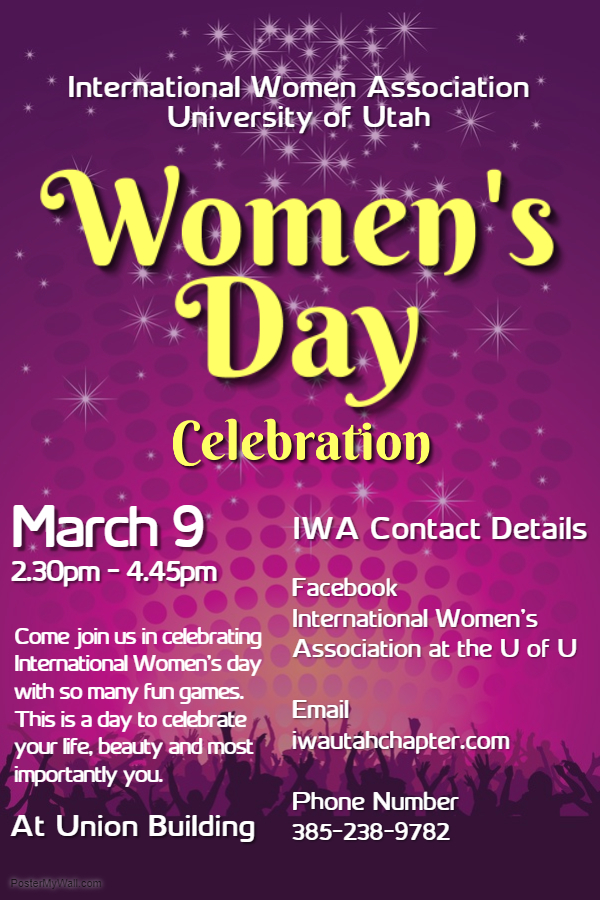
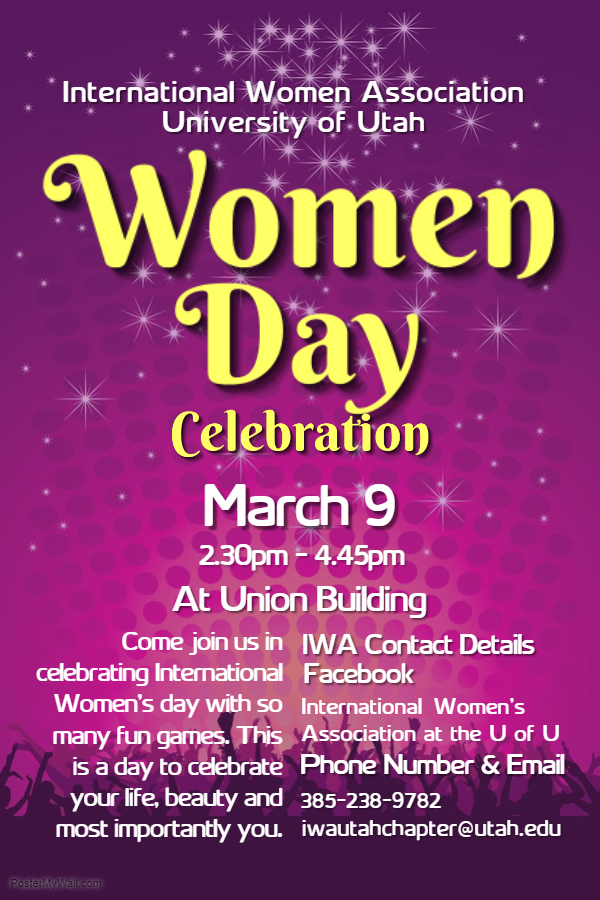
prj7 changes

Changed region(s): [[0.0, 0.0622, 0.99, 0.9333]]

diff --git a/prj7.html b/prj7.html
@@ -13,6 +13,11 @@
 	</div>
 		<p>Latest Design(11/01/2018)</p>
 		<!--<a target="_blank" href="https://harshinivasu.github.io/prj7.png">-->
+		<img rel="fsimage" src="https://harshinivasu.github.io/prj7Prev1.png" height="326" width="252"></a>
+	</div>
+	</div>
+		<p>Latest Design(11/01/2018)</p>
+		<!--<a target="_blank" href="https://harshinivasu.github.io/prj7.png">-->
 		<img rel="fsimage" src="https://harshinivasu.github.io/prj7.png" height="326" width="252"></a>
 	</div>
 </body>
